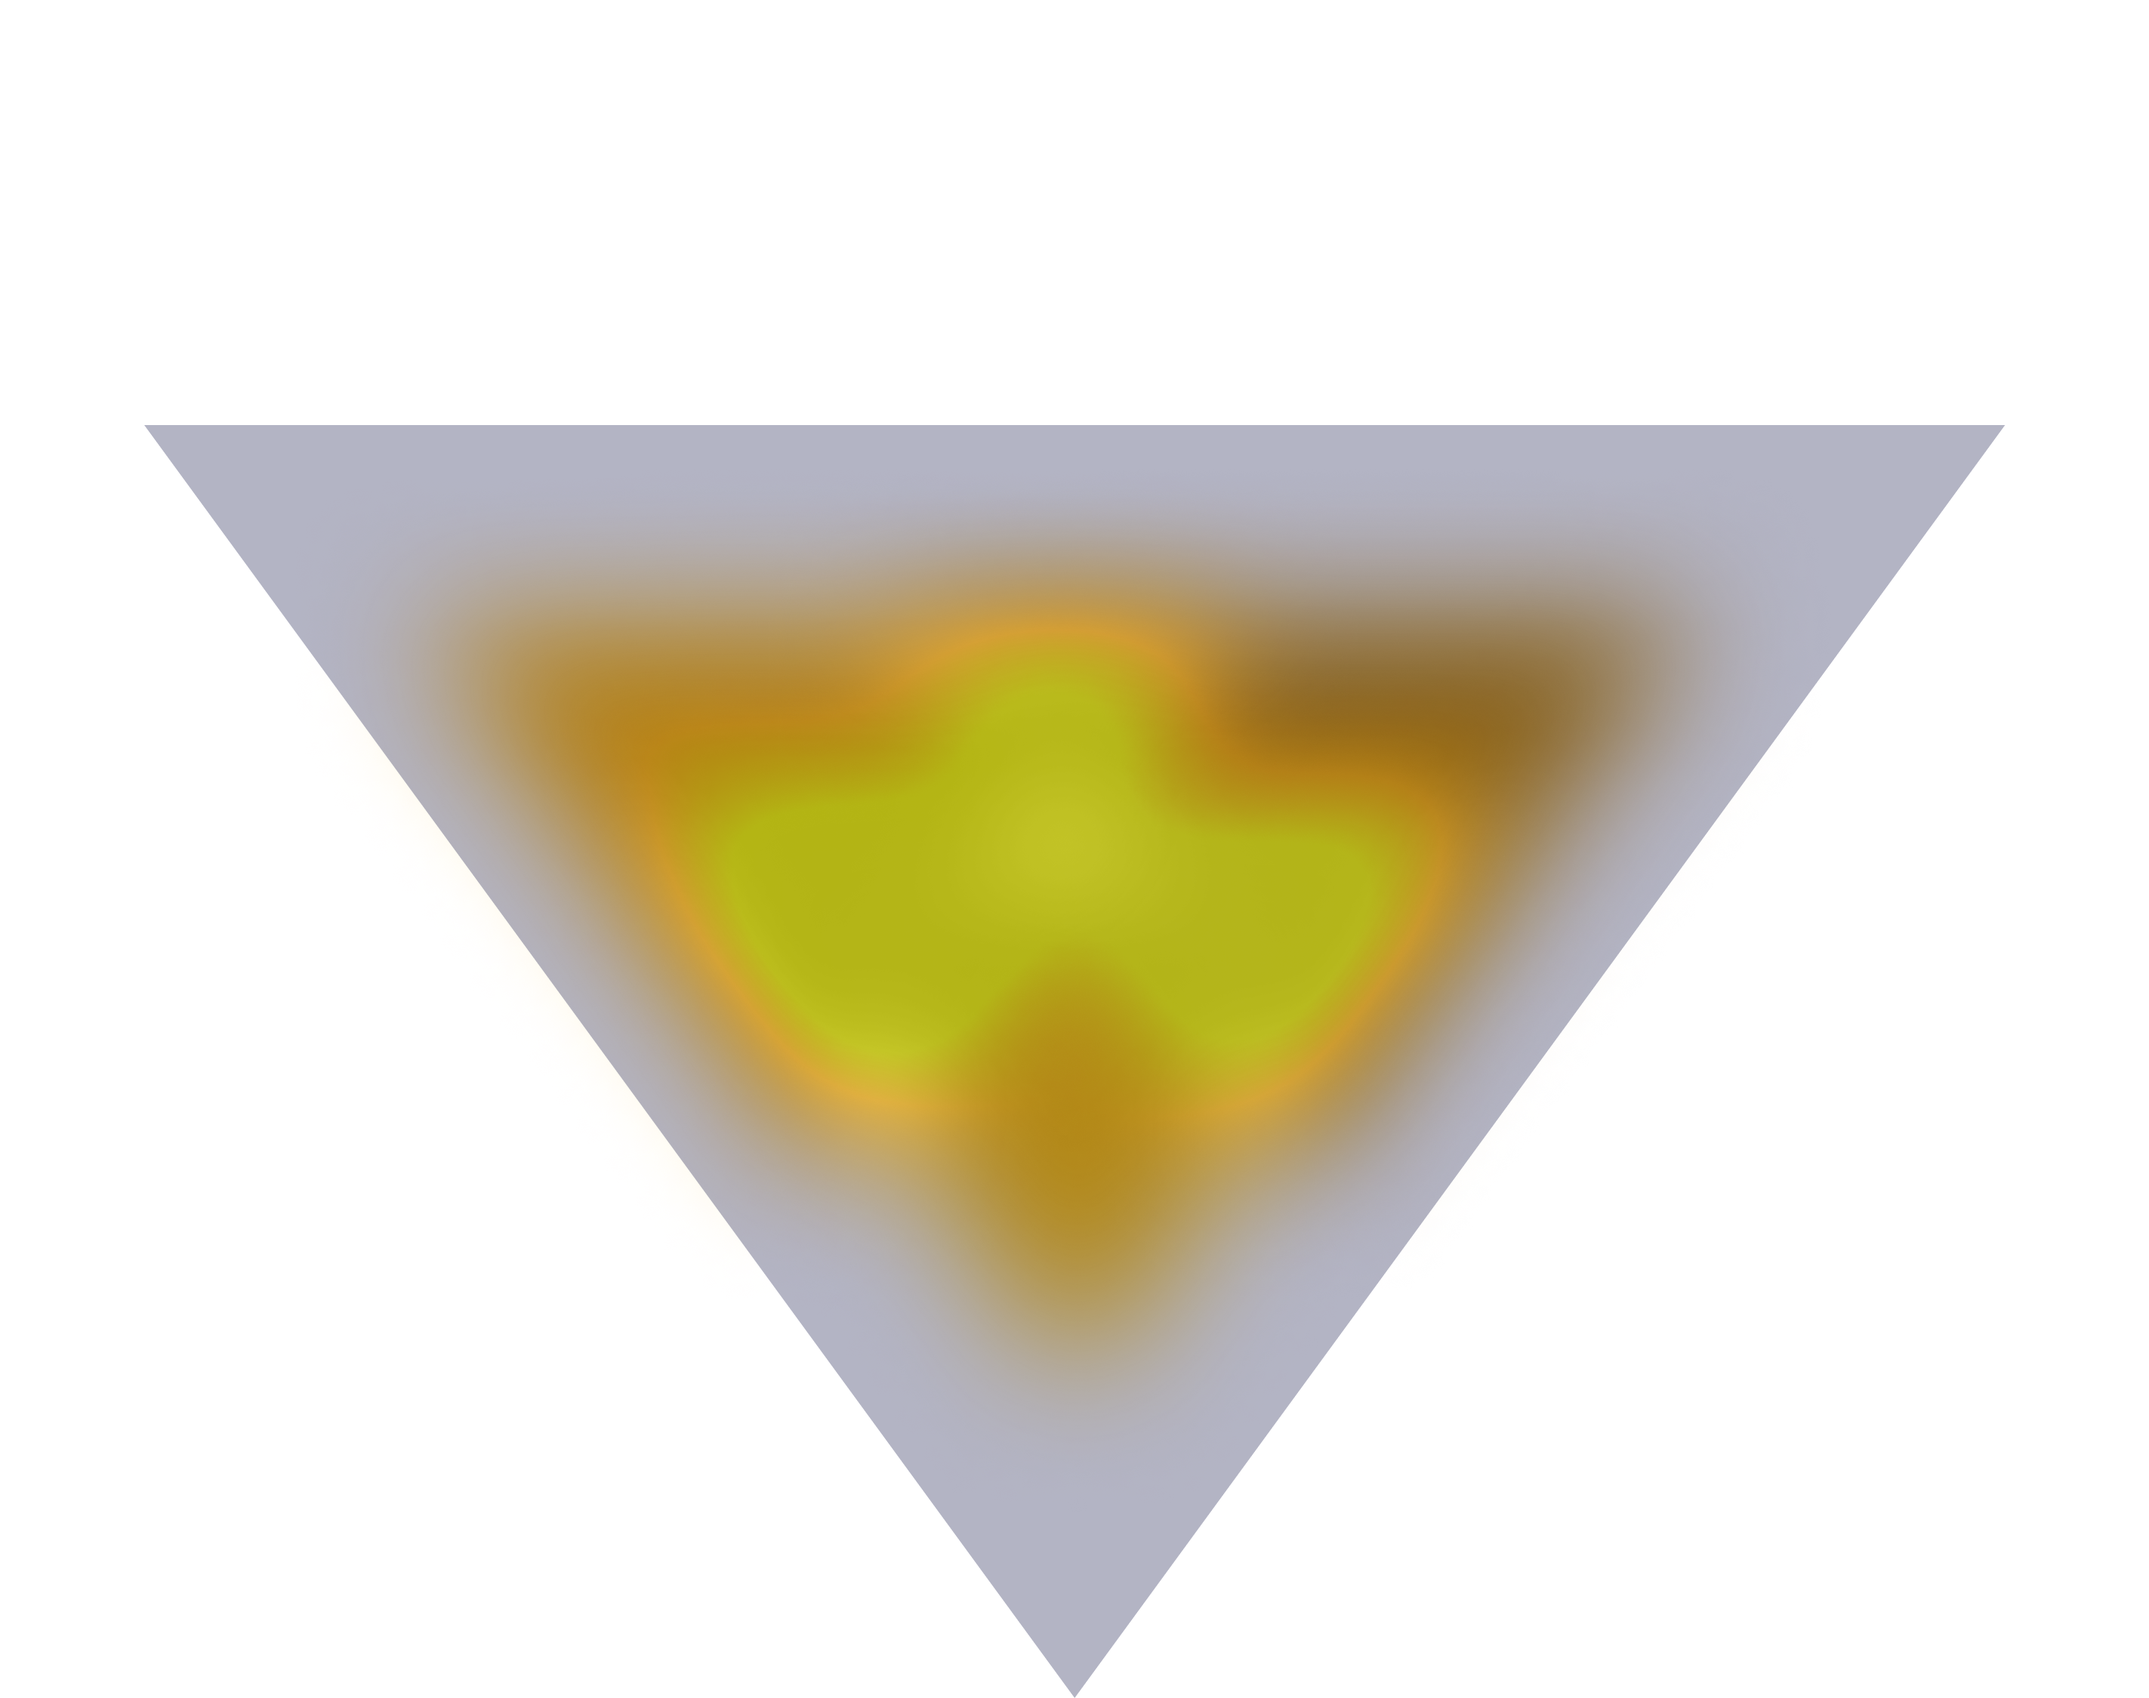
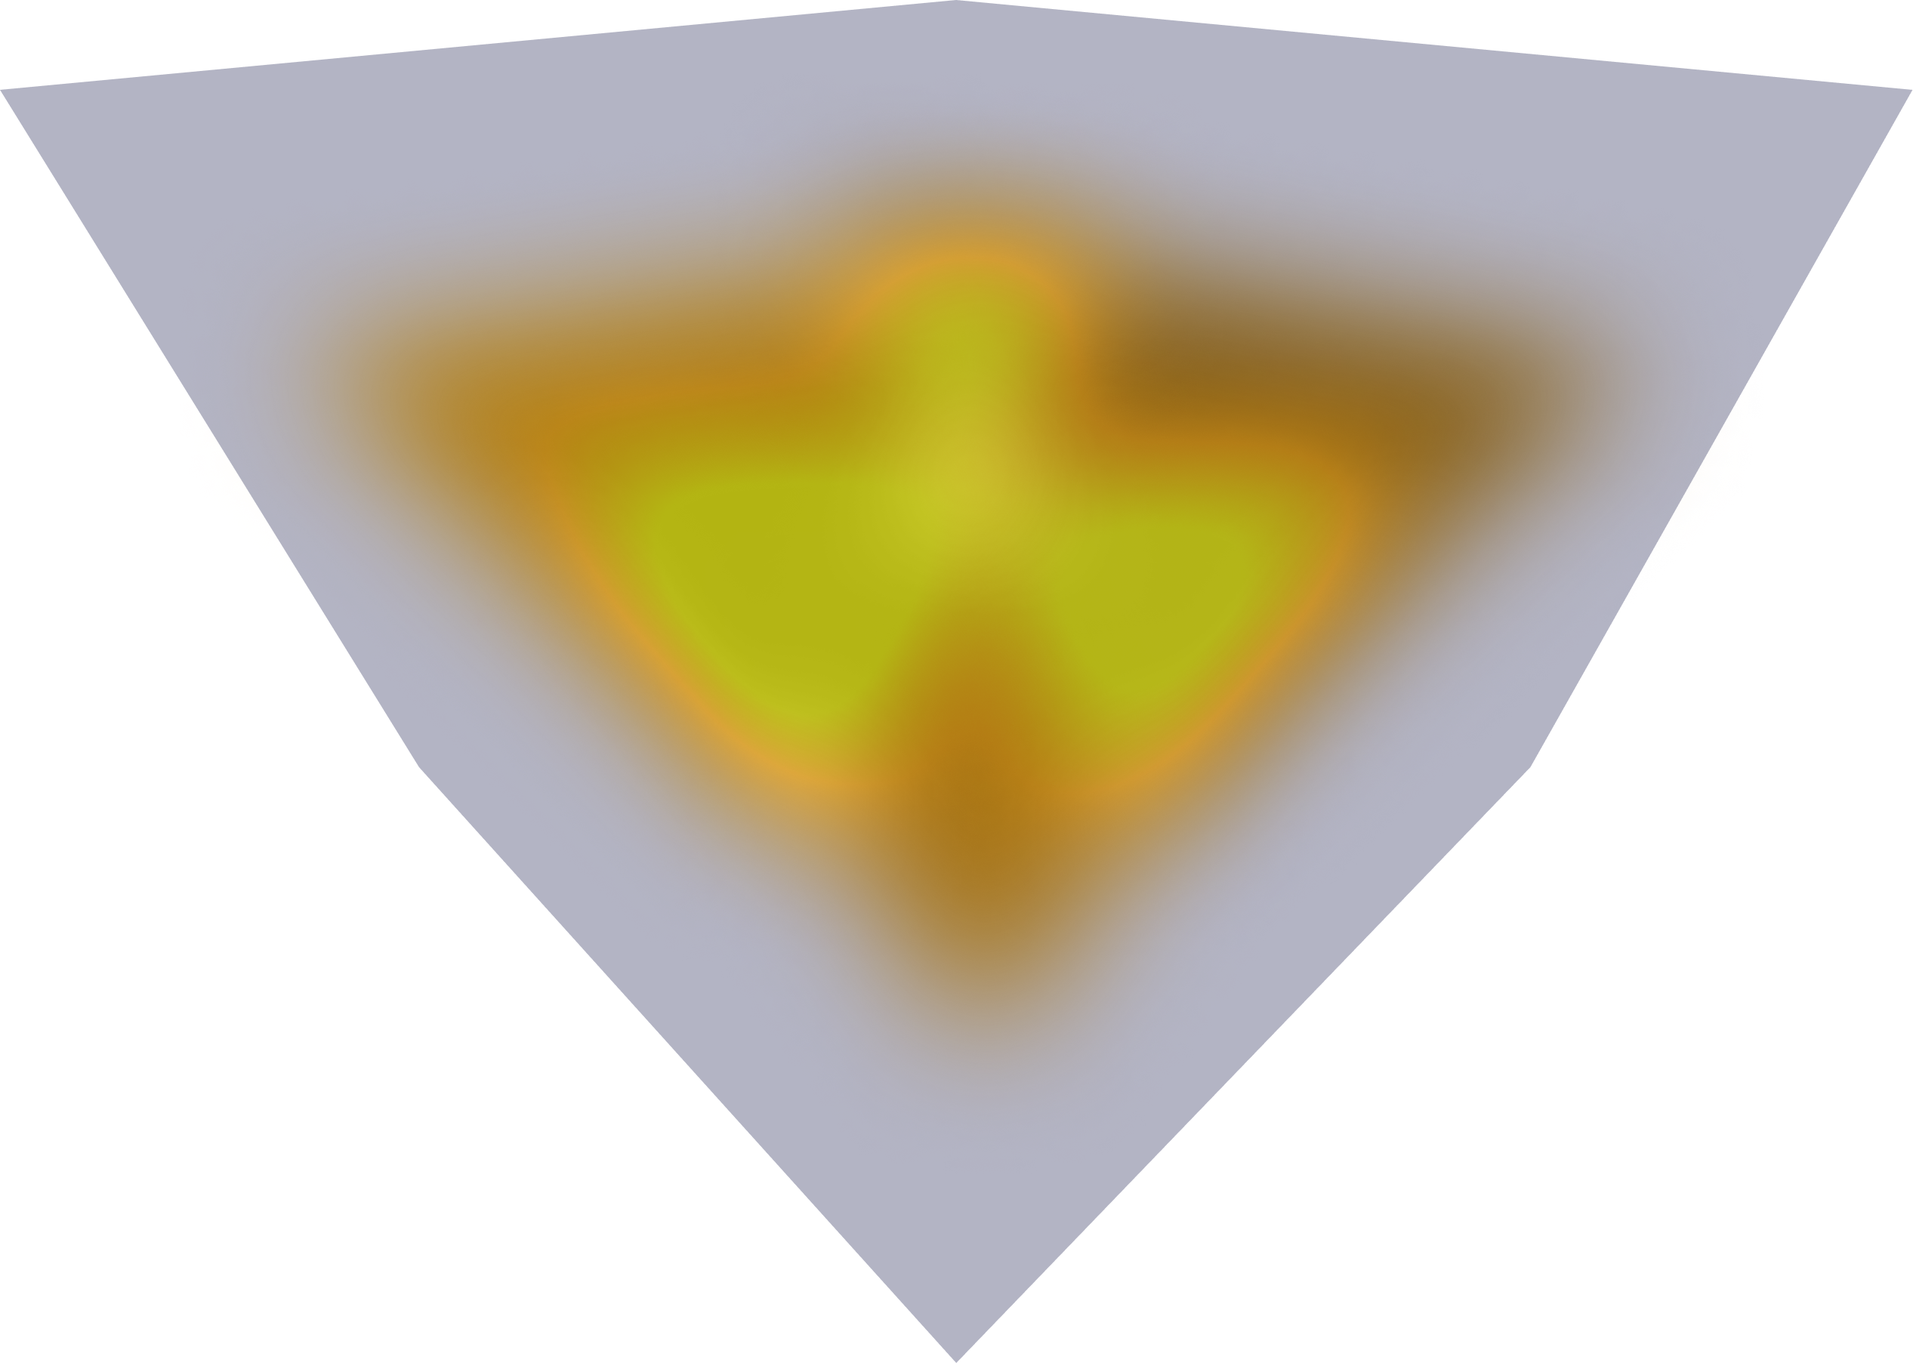
diamond

diff --git a/src/offer/Path.jsx b/src/offer/Path.jsx
@@ -1,19 +1,19 @@
 import React from 'react'
 import styles from '../style'
-import { shape, time } from '../assets'
+import { diamond, shape, time } from '../assets'
 
 const Path = () => {
   return (
     <section className={`${styles.flexStart} ${styles.paddingX} flex flex-col`} id='path'>
-    <div className='h-[10vw] '>
-        <img src={shape} alt="" className='mt-20' />
-      </div>   
+    
 <div className='mt-40'></div>
 
     {/* head section */}
     <div className={`${styles.heading5} text-white`}>
     The Opportunity to <span className='gold'>Change Your Life</span> is Right Here, Right Now
-  
+    <div className='h-[25vw] '>
+        <img src={diamond} alt="" className='' />
+      </div>  
     </div>
    
     </section>

diff --git a/src/offer/Legacy.jsx b/src/offer/Legacy.jsx
@@ -6,7 +6,7 @@ const Legacy = () => {
   return (
     <section className={`${styles.flexStart} ${styles.paddingX} flex flex-col`}>
     {/* head section */}
-    <div className={`${styles.heading7} gold`}>
+    <div className={`${styles.heading7} gold `}>
     Could your path to financial & lifestyle freedom start now
     </div>
     <div className={`${styles.subHeadingy} text-white`}>

diff --git a/src/offer/Offer.jsx b/src/offer/Offer.jsx
@@ -42,7 +42,7 @@ const Offer = () => {
    </div>
 
    
-    <div className={`${styles.flexCenter} mt-20 `}>
+    <div className={`${styles.flexCenter} mt-20`}>
     <div className={`${styles.boxWidth}`}>
    <Legacy />
    <Button />
